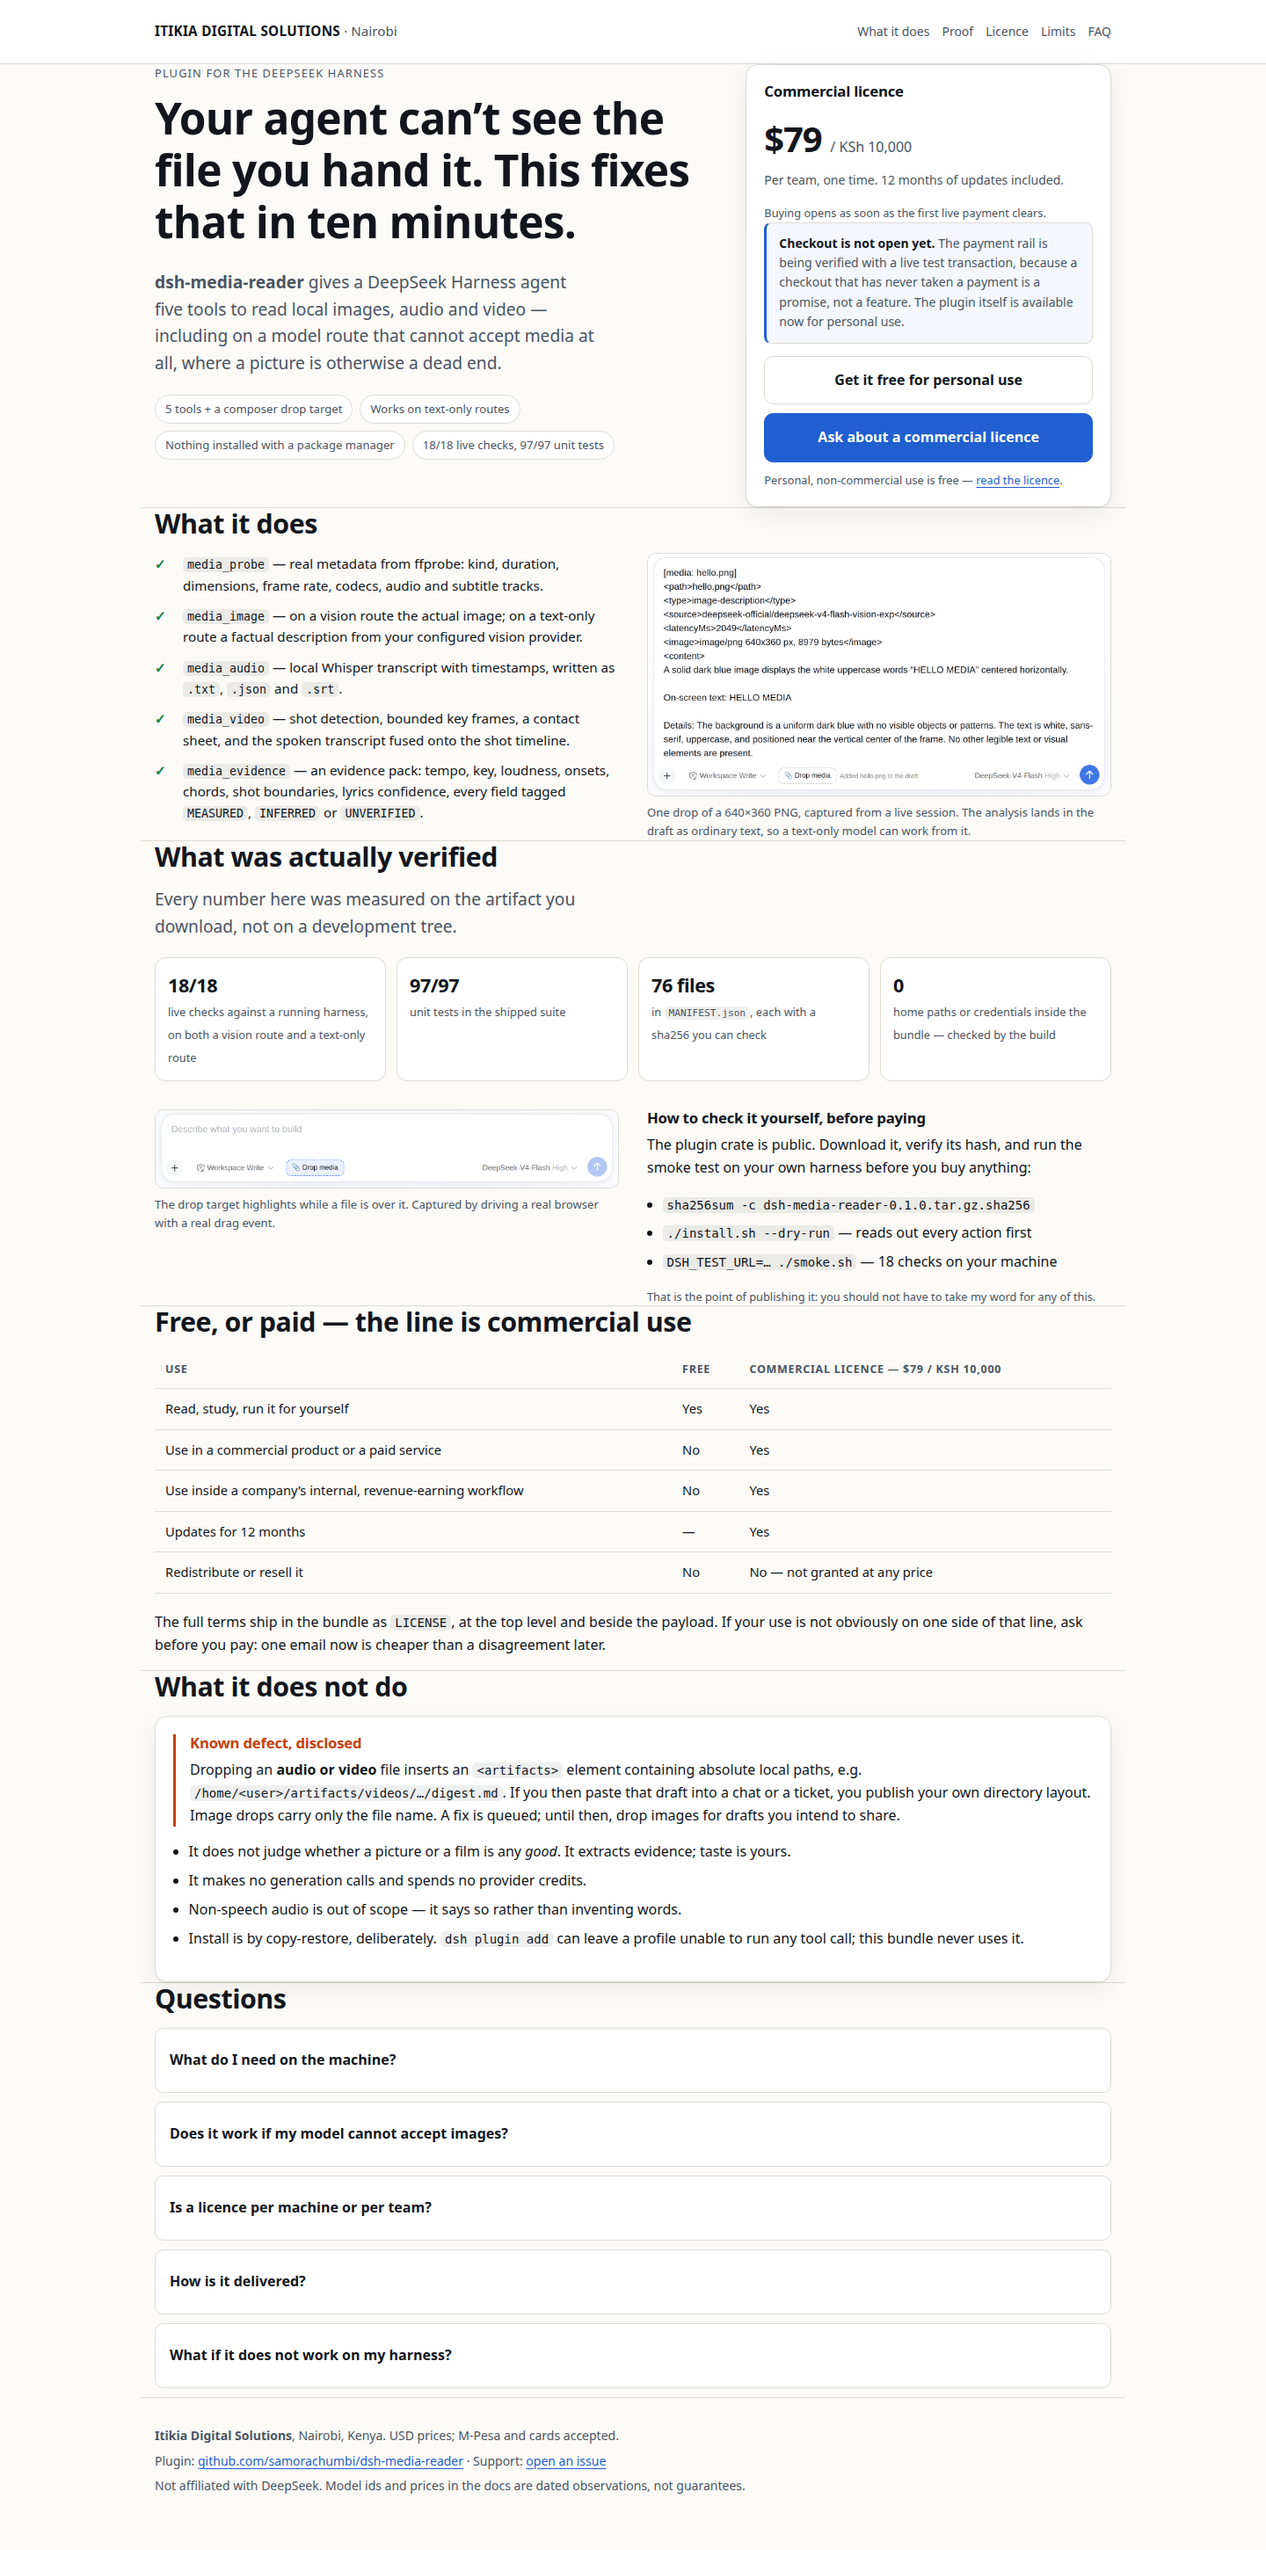
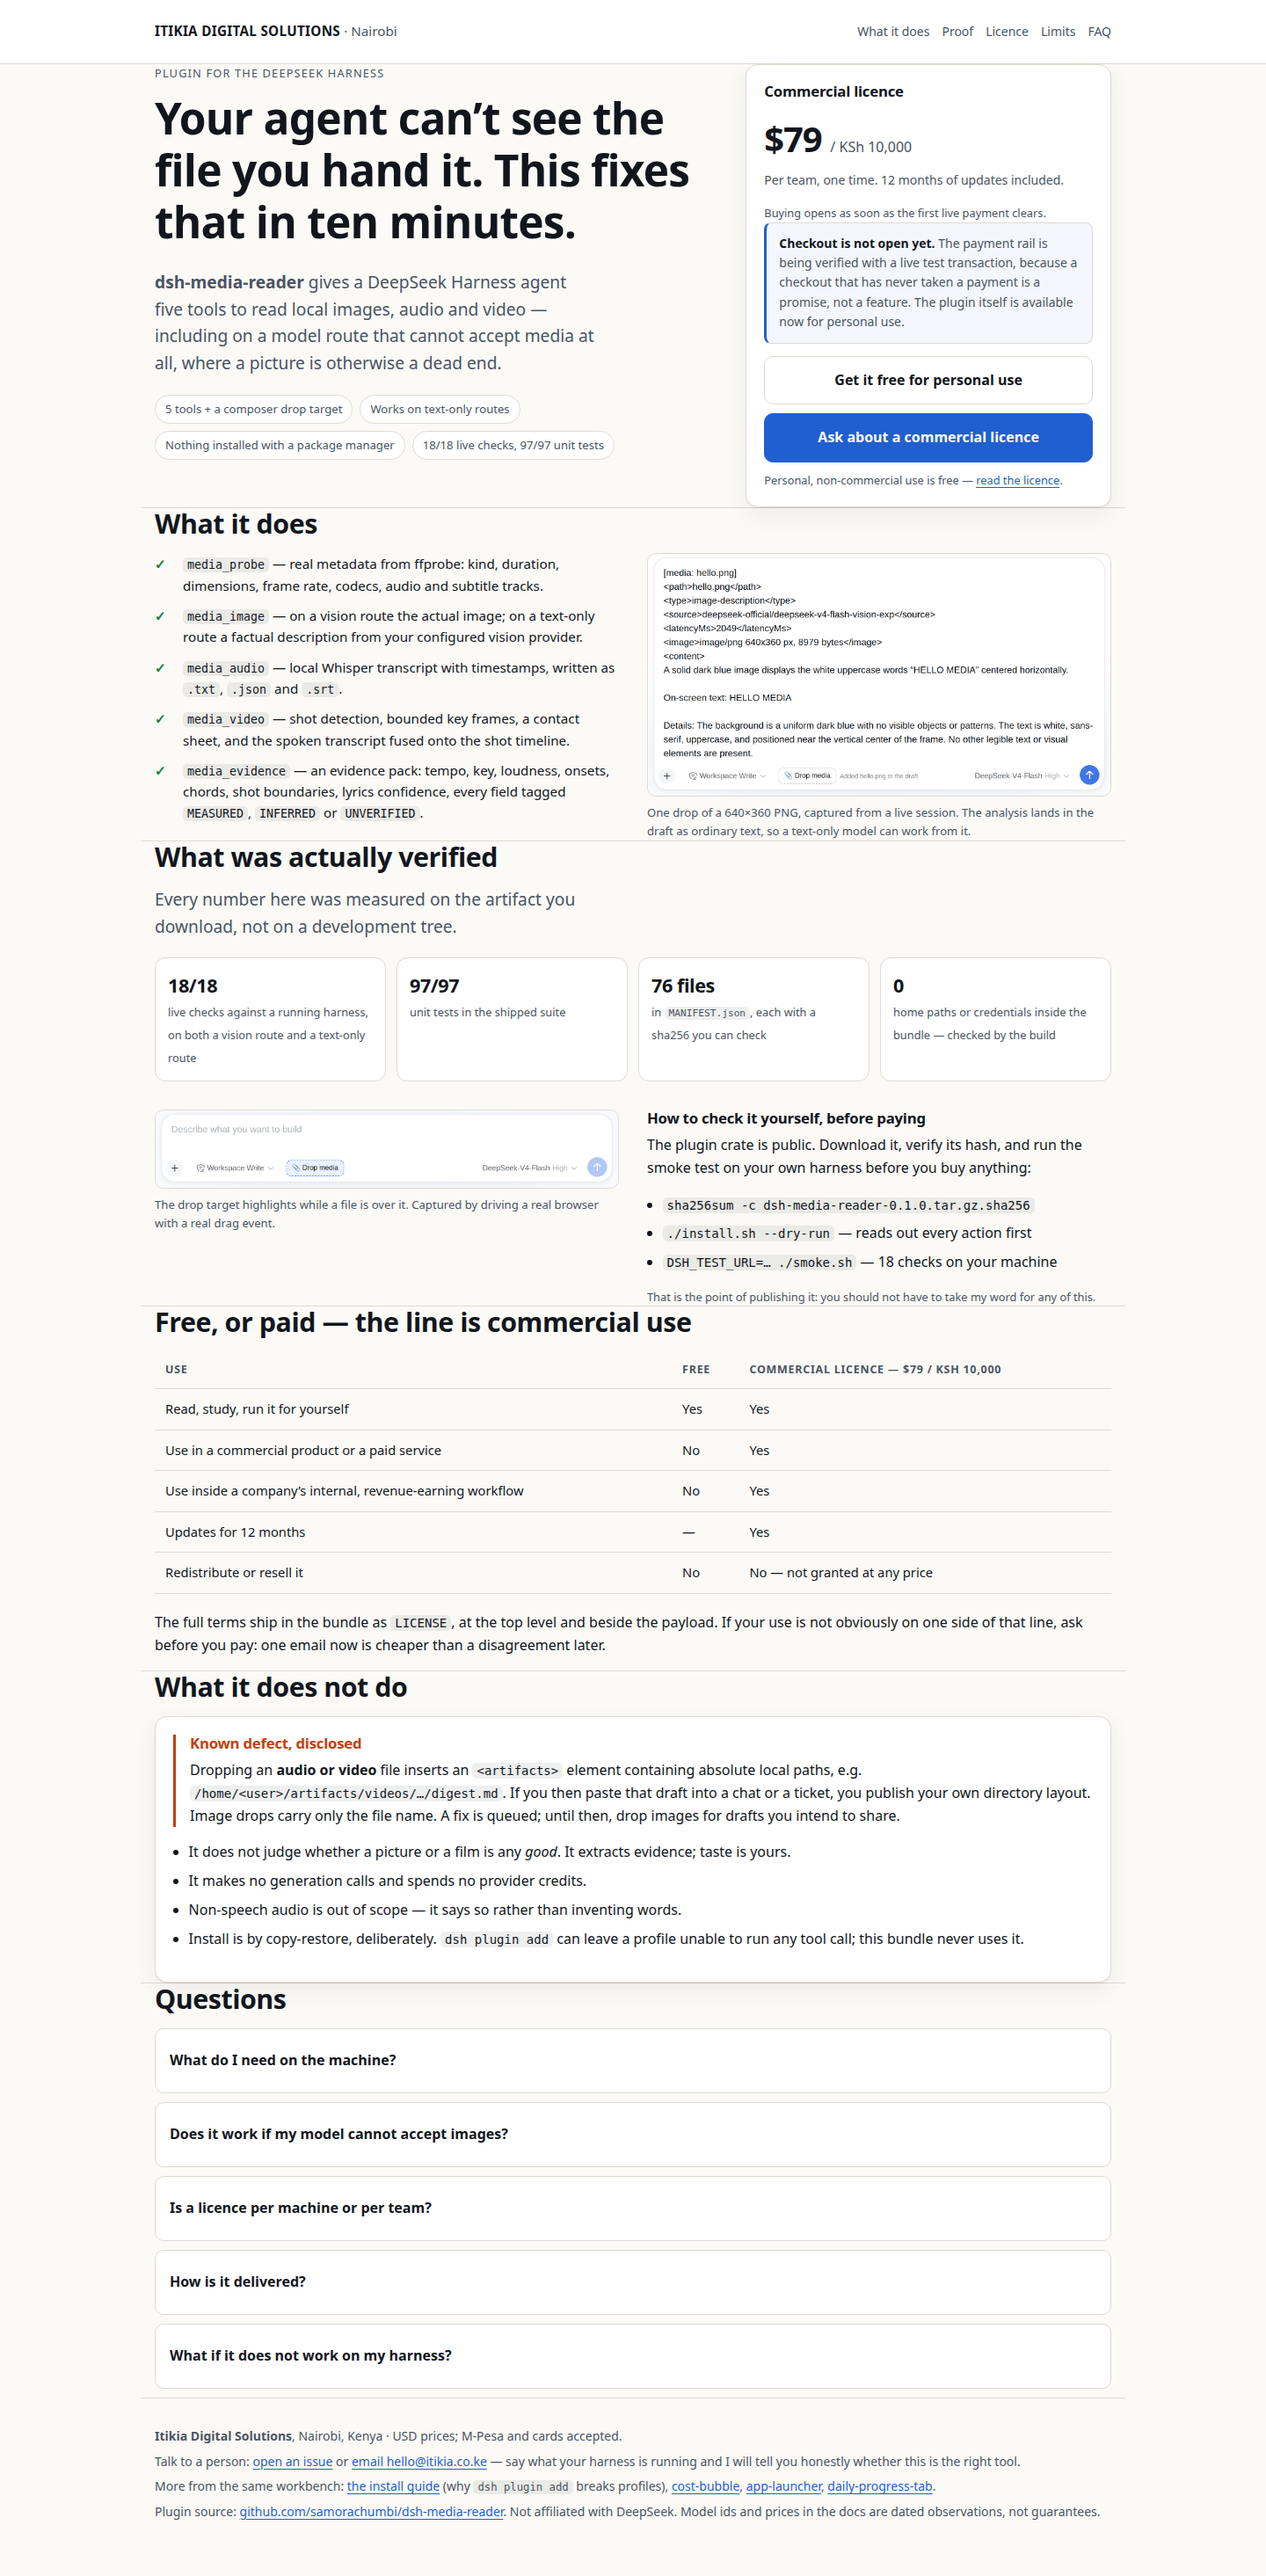
Store: a real no-script contact path, and the portfolio behind it
The exit gate caught two things worth fixing, one of them a defect I introduced.

**The footer's contact links were `href="#"` until JavaScript filled them.** With JS off — or
before the script ran — the only way to reach a human was a link that went nowhere. On a sales page
that is the worst possible place for it. The issue tracker, the `hello@itikia.co.ke` address and the
sibling repositories are now static hrefs in the markup. The address is not invented: the vault records
an SMTP `RCPT TO:<hello@itikia.co.ke>` returning `250 2.1.0 Ok` with a `550` counter-check.

**A portfolio of one is a portfolio of none.** The page linked only to its own repository; it now names
the install guide (which is the single most useful thing a DSH buyer can read), cost-bubble,
app-launcher and daily-progress-tab. All five destinations were checked `HTTP 200` (the
`issues/new/choose` endpoint `302`s to the chooser, which is correct).

Re-measured after the change at 320/390/561/900/1024/1440: no horizontal overflow, no dead nav link,
zero interactive targets under 44 px. Evidence captures regenerated in `store/evidence/`.

diff --git a/store/index.html b/store/index.html
@@ -315,10 +315,19 @@
 </main>
 
 <footer class="site wrap">
-  <p><strong>Itikia Digital Solutions</strong>, Nairobi, Kenya. USD prices; M-Pesa and cards accepted.</p>
-  <p>Plugin: <a href="https://github.com/samorachumbi/dsh-media-reader">github.com/samorachumbi/dsh-media-reader</a>
-     · Support: <a id="support-link" href="#">open an issue</a></p>
-  <p>Not affiliated with DeepSeek. Model ids and prices in the docs are dated observations, not guarantees.</p>
+  <p><strong>Itikia Digital Solutions</strong>, Nairobi, Kenya · USD prices; M-Pesa and cards accepted.</p>
+  <p>Talk to a person:
+     <a href="https://github.com/samorachumbi/dsh-media-reader/issues/new/choose">open an issue</a> or
+     <a href="mailto:hello@itikia.co.ke?subject=dsh-media-reader">email hello@itikia.co.ke</a>
+     — say what your harness is running and I will tell you honestly whether this is the right tool.</p>
+  <p>More from the same workbench:
+     <a href="https://github.com/samorachumbi/dsh-plugin-install-guide">the install guide</a> (why
+     <code>dsh plugin add</code> breaks profiles),
+     <a href="https://github.com/samorachumbi/dsh-cost-bubble">cost-bubble</a>,
+     <a href="https://github.com/samorachumbi/dsh-app-launcher">app-launcher</a>,
+     <a href="https://github.com/samorachumbi/dsh-daily-progress-tab">daily-progress-tab</a>.</p>
+  <p>Plugin source: <a href="https://github.com/samorachumbi/dsh-media-reader">github.com/samorachumbi/dsh-media-reader</a>.
+     Not affiliated with DeepSeek. Model ids and prices in the docs are dated observations, not guarantees.</p>
 </footer>
 
 <script>
@@ -327,7 +336,6 @@
 
   // The free path is always a real link.
   document.getElementById('free-link').href = cfg.freeDownload;
-  document.getElementById('support-link').href = cfg.support;
 
   var area = document.getElementById('pay-area');
   var live = cfg.methods.filter(function (m) { return m.url && m.verified; });
@@ -350,7 +358,7 @@
 
     var ask = document.createElement('a');
     ask.className = 'btn';
-    ask.href = cfg.support + '/new/choose?title=Commercial%20licence%20enquiry';
+    ask.href = cfg.support + '/new/choose?title=Commercial%20licence%20enquiry';  // cfg-driven; the footer carries a static fallback
     ask.textContent = 'Ask about a commercial licence';
     area.appendChild(ask);
 
